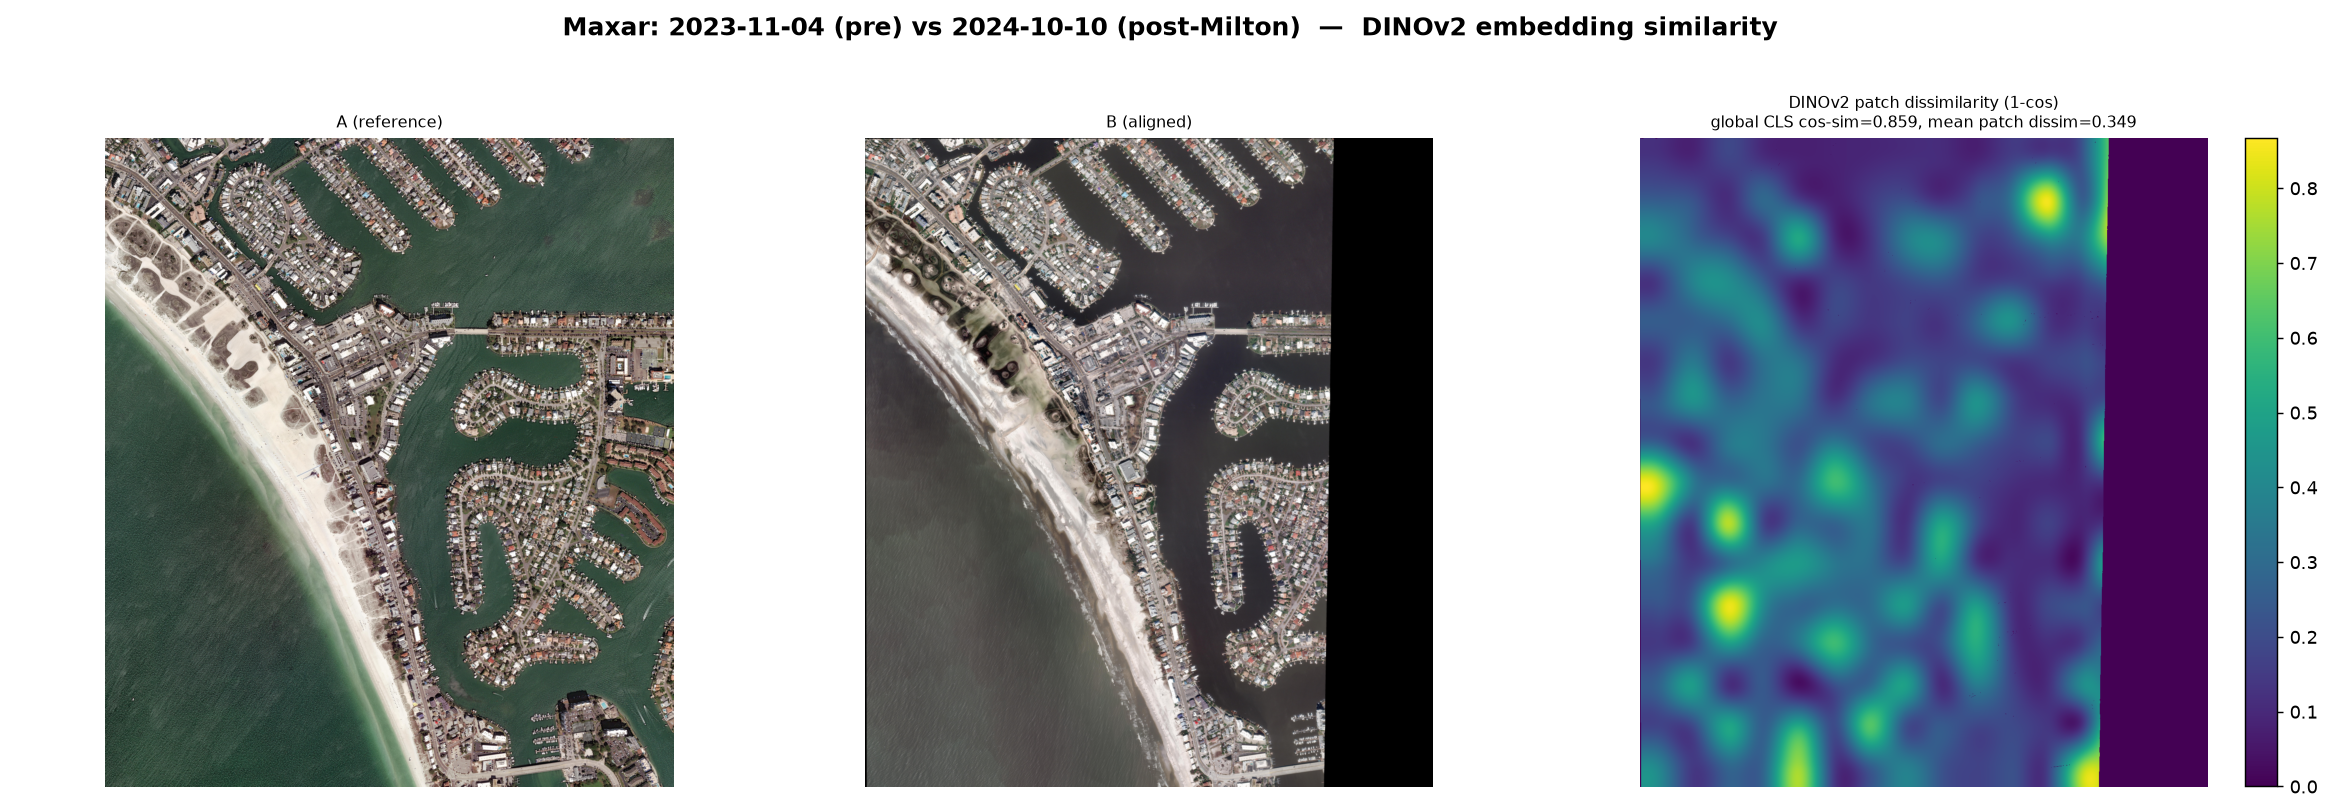
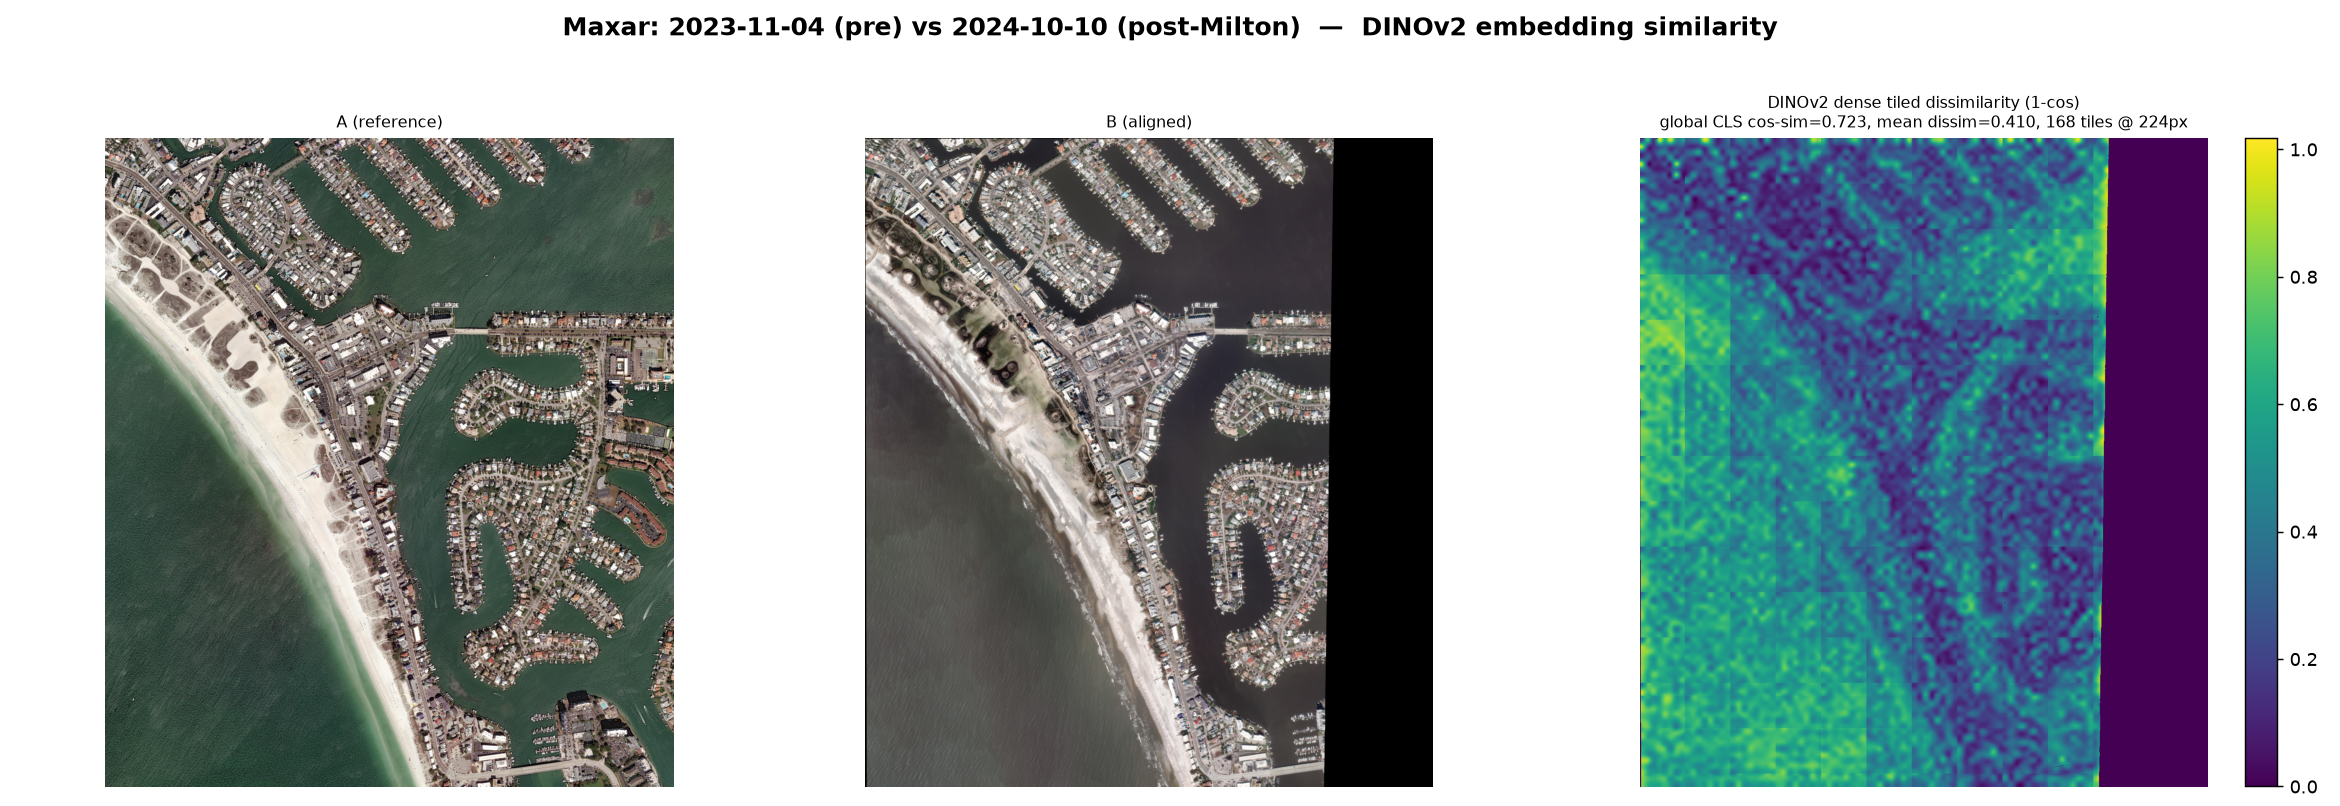
Fix DINOv2 center-crop blind spot; add SSIM+DINOv2 combined signal
DINOv2's default processor center-crops to 224x224, silently discarding
13-45% of each source image (worse on tall/non-square frames like the
Sentinel-2 pair) before any embedding happens. Replace the single
whole-image embed with: a full-frame (no center-crop) CLS embedding for
the global similarity score, and an overlapping-tile stitched patch
embedding for the dense dissimilarity map, so the fine map now covers
the entire frame at much finer effective resolution instead of a
16x16-grid upsample blur.

Add combined_compare.py, which pairs windowed SSIM (fine-grained,
native resolution, but noise/misalignment sensitive) with the new
dense DINOv2 map (coarser but semantically robust) to flag
Otsu-thresholded candidates where both agree, vs. fine-only (likely
noise) and semantic-only (broad texture shift) regions.

diff --git a/dinov2_compare.py b/dinov2_compare.py
@@ -8,7 +8,19 @@ import cv2
 from compare_images import PAIRS, IMG_DIR, OUT_DIR, load_rgb, valid_mask, align_b_to_a
 
 MODEL_NAME = "facebook/dinov2-base"
-DEVICE = "cuda" if torch.cuda.is_available() else "cpu"
+DEVICE = (
+    "cuda" if torch.cuda.is_available()
+    else "mps" if torch.backends.mps.is_available()
+    else "cpu"
+)
+
+# Tile size matches DINOv2's native training resolution (224 = 16 * patch_size),
+# so no position-embedding interpolation is needed. Stride < TILE gives overlap,
+# which smooths tile-seam artifacts in the stitched map at the cost of more forward
+# passes (STRIDE = TILE // 2 means ~4x the tiles of non-overlapping stitching).
+TILE = 224
+STRIDE = 112
+BATCH_SIZE = 16
 
 print(f"Loading {MODEL_NAME} on {DEVICE}...")
 processor = AutoImageProcessor.from_pretrained(MODEL_NAME)
@@ -17,17 +29,12 @@ PATCH = model.config.patch_size  # 14
 
 
 @torch.no_grad()
-def embed(img_rgb_uint8):
-    inputs = processor(images=img_rgb_uint8, return_tensors="pt").to(DEVICE)
-    h_in, w_in = inputs["pixel_values"].shape[-2:]
-    out = model(**inputs)
-    tokens = out.last_hidden_state[0]
-    cls = tokens[0]
-    n_patches = (h_in // PATCH) * (w_in // PATCH)
-    patch_tokens = tokens[-n_patches:]
-    grid_h, grid_w = h_in // PATCH, w_in // PATCH
-    patch_grid = patch_tokens.reshape(grid_h, grid_w, -1)
-    return cls.cpu().numpy(), patch_grid.cpu().numpy()
+def embed_global(img_rgb_uint8):
+    """Whole-image CLS embedding with no center crop, so the full frame (not just
+    the center ~75-90% of it) contributes to the scene-level similarity score."""
+    inputs = processor(images=img_rgb_uint8, do_center_crop=False, return_tensors="pt").to(DEVICE)
+    out = model(**inputs, interpolate_pos_encoding=True)
+    return out.last_hidden_state[0, 0].cpu().numpy()
 
 
 def cosine(a, b):
@@ -42,6 +49,64 @@ def patch_cosine_map(grid_a, grid_b):
     return (a * b).sum(axis=-1)
 
 
+def _tile_starts(dim, tile, stride):
+    if dim <= tile:
+        return [0]
+    starts = list(range(0, dim - tile + 1, stride))
+    last = dim - tile
+    if starts[-1] != last:
+        starts.append(last)
+    return starts
+
+
+@torch.no_grad()
+def _patch_grids(crops, tile):
+    """Embed a list of tile x tile x 3 crops at native resolution (no resize, no
+    crop) and return their patch-token grids, shape (N, grid, grid, dim)."""
+    grid = tile // PATCH
+    grids = []
+    for i in range(0, len(crops), BATCH_SIZE):
+        chunk = crops[i:i + BATCH_SIZE]
+        inputs = processor(images=chunk, do_resize=False, do_center_crop=False, return_tensors="pt").to(DEVICE)
+        out = model(**inputs, interpolate_pos_encoding=True)
+        tokens = out.last_hidden_state
+        patch_tokens = tokens[:, -grid * grid:, :].reshape(len(chunk), grid, grid, -1)
+        grids.append(patch_tokens.cpu().numpy())
+    return np.concatenate(grids, axis=0)
+
+
+def dense_dissim_map(img_a, img_b):
+    """Tile both (already pixel-aligned) images at native resolution, compute
+    per-tile patch dissimilarity, and stitch (with averaging over overlaps) into
+    a full-resolution map. Avoids both the center-crop content loss and the
+    heavy single-pass upsample blur of a whole-image embed."""
+    h, w = img_a.shape[:2]
+    tile = min(TILE, h, w)
+    tile -= tile % PATCH
+    tile = max(tile, PATCH)
+
+    ys = _tile_starts(h, tile, STRIDE)
+    xs = _tile_starts(w, tile, STRIDE)
+    coords = [(y, x) for y in ys for x in xs]
+
+    crops_a = [img_a[y:y + tile, x:x + tile] for y, x in coords]
+    crops_b = [img_b[y:y + tile, x:x + tile] for y, x in coords]
+
+    grids_a = _patch_grids(crops_a, tile)
+    grids_b = _patch_grids(crops_b, tile)
+
+    dissim_sum = np.zeros((h, w), dtype=np.float32)
+    weight = np.zeros((h, w), dtype=np.float32)
+    for (y, x), ga, gb in zip(coords, grids_a, grids_b):
+        sim = patch_cosine_map(ga, gb)
+        tile_dissim = cv2.resize((1 - sim).astype(np.float32), (tile, tile), interpolation=cv2.INTER_CUBIC)
+        dissim_sum[y:y + tile, x:x + tile] += tile_dissim
+        weight[y:y + tile, x:x + tile] += 1.0
+
+    dissim_full = dissim_sum / np.maximum(weight, 1e-6)
+    return np.clip(dissim_full, 0, None), len(coords), tile
+
+
 def analyze_pair_dinov2(pair):
     a = load_rgb(f"{IMG_DIR}/{pair['a']}")
     b_raw = load_rgb(f"{IMG_DIR}/{pair['b']}")
@@ -50,26 +115,21 @@ def analyze_pair_dinov2(pair):
     b_aligned, _, _ = align_b_to_a(a_gray, b_gray, b_raw)
     mask = valid_mask(a) & valid_mask(b_aligned)
 
-    cls_a, grid_a = embed(a)
-    cls_b, grid_b = embed(b_aligned)
-
+    cls_a = embed_global(a)
+    cls_b = embed_global(b_aligned)
     global_sim = cosine(cls_a, cls_b)
-    sim_map = patch_cosine_map(grid_a, grid_b)
-    dissim_map = 1 - sim_map
 
-    h, w = a.shape[:2]
-    #unsample
-    dissim_full = cv2.resize(dissim_map.astype(np.float32),(w, h), interpolation=cv2.INTER_CUBIC)
-    dissim_full = np.clip(dissim_full, 0, None)
+    dissim_full, n_tiles, tile_size = dense_dissim_map(a, b_aligned)
     dissim_masked = np.where(mask, dissim_full, 0)
-
-    mean_patch_dissim = float(sim_map.size and (1 - sim_map).mean())
+    mean_patch_dissim = float(dissim_full[mask].mean()) if mask.any() else float("nan")
 
     metrics = {
         "dinov2_model": MODEL_NAME,
         "dinov2_global_cosine_sim": global_sim,
         "dinov2_mean_patch_dissim": mean_patch_dissim,
-        "dinov2_patch_grid": list(sim_map.shape),
+        "dinov2_tile_size": tile_size,
+        "dinov2_tile_stride": STRIDE,
+        "dinov2_n_tiles": n_tiles,
     }
 
     fig, axes = plt.subplots(1, 3, figsize=(18, 6.2))
@@ -78,8 +138,8 @@ def analyze_pair_dinov2(pair):
     axes[1].imshow(b_aligned); axes[1].set_title("B (aligned)", fontsize=9); axes[1].axis("off")
     im = axes[2].imshow(dissim_masked, cmap="viridis")
     axes[2].set_title(
-        f"DINOv2 patch dissimilarity (1-cos)\nglobal CLS cos-sim={global_sim:.3f}, "
-        f"mean patch dissim={mean_patch_dissim:.3f}",
+        f"DINOv2 dense tiled dissimilarity (1-cos)\nglobal CLS cos-sim={global_sim:.3f}, "
+        f"mean dissim={mean_patch_dissim:.3f}, {n_tiles} tiles @ {tile_size}px",
         fontsize=9,
     )
     axes[2].axis("off")

diff --git a/combined_compare.py b/combined_compare.py
@@ -1,0 +1,112 @@
+import json
+import numpy as np
+import cv2
+from skimage.metrics import structural_similarity as ssim
+from skimage.filters import threshold_otsu
+import matplotlib.pyplot as plt
+
+from compare_images import PAIRS, IMG_DIR, OUT_DIR, load_rgb, valid_mask, align_b_to_a
+from dinov2_compare import dense_dissim_map
+
+# Colors for the overlay panel (RGB, 0-255)
+COLOR_CONFIRMED = [255, 0, 0]      # both signals agree: most likely a real localized change
+COLOR_FINE_ONLY = [0, 150, 255]    # SSIM flags it, DINOv2 doesn't: likely noise/misalignment/lighting
+COLOR_SEMANTIC_ONLY = [255, 200, 0]  # DINOv2 flags it, SSIM doesn't: broad texture/context shift (e.g. water)
+
+
+def otsu_mask(values_2d, valid_2d):
+    valid_vals = values_2d[valid_2d]
+    if valid_vals.size == 0 or valid_vals.max() <= valid_vals.min():
+        return np.zeros_like(valid_2d)
+    t = threshold_otsu(valid_vals)
+    return (values_2d > t) & valid_2d
+
+
+def analyze_pair_combined(pair):
+    a = load_rgb(f"{IMG_DIR}/{pair['a']}")
+    b_raw = load_rgb(f"{IMG_DIR}/{pair['b']}")
+    a_gray = cv2.cvtColor(a, cv2.COLOR_RGB2GRAY)
+    b_gray = cv2.cvtColor(b_raw, cv2.COLOR_RGB2GRAY)
+    b_aligned, _, _ = align_b_to_a(a_gray, b_gray, b_raw)
+    mask = valid_mask(a) & valid_mask(b_aligned)
+
+    # Fine-grained candidate detector: native-resolution windowed SSIM.
+    # Sensitive to small localized pixel changes, but also to noise/misalignment/lighting.
+    b_gray_aligned = cv2.cvtColor(b_aligned, cv2.COLOR_RGB2GRAY)
+    _, ssim_map = ssim(a_gray, b_gray_aligned, full=True)
+    ssim_dissim = np.clip(1 - ssim_map, 0, None)
+
+    # Semantic filter: full-resolution stitched DINOv2 patch dissimilarity.
+    # Robust to noise/lighting, but blind to changes much smaller than a patch.
+    dino_dissim, n_tiles, tile_size = dense_dissim_map(a, b_aligned)
+
+    ssim_candidates = otsu_mask(ssim_dissim, mask)
+    dino_candidates = otsu_mask(dino_dissim, mask)
+
+    confirmed = ssim_candidates & dino_candidates
+    fine_only = ssim_candidates & ~dino_candidates
+    semantic_only = dino_candidates & ~ssim_candidates
+
+    valid_n = int(mask.sum())
+    metrics = {
+        "pair": pair["name"],
+        "combined_tile_size": tile_size,
+        "combined_n_tiles": n_tiles,
+        "pct_ssim_candidates": 100.0 * int(ssim_candidates.sum()) / valid_n if valid_n else float("nan"),
+        "pct_dino_candidates": 100.0 * int(dino_candidates.sum()) / valid_n if valid_n else float("nan"),
+        "pct_confirmed_change": 100.0 * int(confirmed.sum()) / valid_n if valid_n else float("nan"),
+        "pct_fine_only_likely_noise": 100.0 * int(fine_only.sum()) / valid_n if valid_n else float("nan"),
+        "pct_semantic_only_broad": 100.0 * int(semantic_only.sum()) / valid_n if valid_n else float("nan"),
+    }
+
+    overlay = a.copy()
+    overlay[semantic_only] = COLOR_SEMANTIC_ONLY
+    overlay[fine_only] = COLOR_FINE_ONLY
+    overlay[confirmed] = COLOR_CONFIRMED
+
+    fig, axes = plt.subplots(1, 4, figsize=(24, 6.2))
+    fig.suptitle(f"{pair['title']}  —  combined SSIM (fine) + DINOv2 (semantic) change detection", fontsize=13, fontweight="bold")
+
+    axes[0].imshow(a); axes[0].set_title("A (reference)", fontsize=9); axes[0].axis("off")
+
+    im1 = axes[1].imshow(np.where(mask, ssim_dissim, 0), cmap="inferno")
+    axes[1].set_title(f"SSIM dissimilarity (fine)\n{metrics['pct_ssim_candidates']:.1f}% flagged", fontsize=9)
+    axes[1].axis("off")
+    fig.colorbar(im1, ax=axes[1], fraction=0.046)
+
+    im2 = axes[2].imshow(np.where(mask, dino_dissim, 0), cmap="viridis")
+    axes[2].set_title(f"DINOv2 dissimilarity (semantic)\n{metrics['pct_dino_candidates']:.1f}% flagged", fontsize=9)
+    axes[2].axis("off")
+    fig.colorbar(im2, ax=axes[2], fraction=0.046)
+
+    axes[3].imshow(overlay)
+    axes[3].set_title(
+        f"Confirmed (red)={metrics['pct_confirmed_change']:.1f}%  "
+        f"Fine-only/likely noise (blue)={metrics['pct_fine_only_likely_noise']:.1f}%  "
+        f"Semantic-only/broad (amber)={metrics['pct_semantic_only_broad']:.1f}%",
+        fontsize=8,
+    )
+    axes[3].axis("off")
+
+    plt.tight_layout(rect=[0, 0, 1, 0.92])
+    out_path = f"{OUT_DIR}/{pair['name']}_combined.png"
+    plt.savefig(out_path, dpi=130)
+    plt.close(fig)
+
+    metrics["combined_figure"] = out_path
+    return metrics
+
+
+if __name__ == "__main__":
+    with open(f"{OUT_DIR}/metrics.json") as f:
+        existing = {m["pair"]: m for m in json.load(f)}
+
+    for pair in PAIRS:
+        print(f"Combined analysis: {pair['name']}...")
+        m = analyze_pair_combined(pair)
+        existing[pair["name"]].update(m)
+        print(json.dumps(m, indent=2))
+
+    with open(f"{OUT_DIR}/metrics.json", "w") as f:
+        json.dump(list(existing.values()), f, indent=2)
+    print(f"Updated {OUT_DIR}/metrics.json with combined metrics.")
